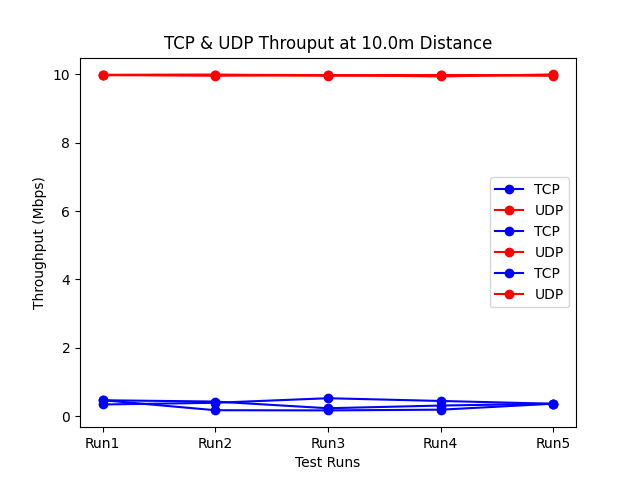
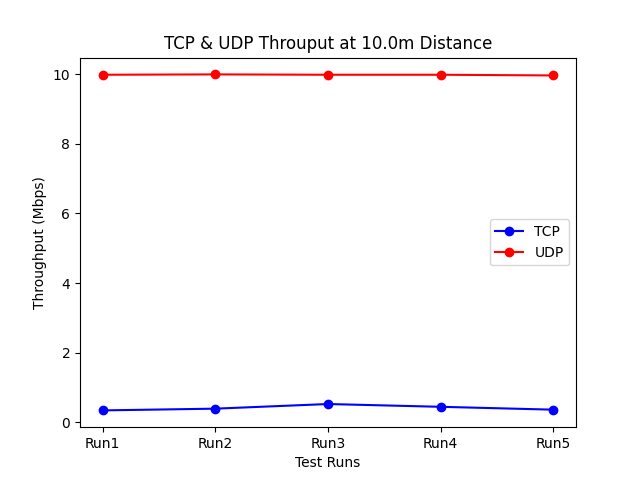
Fixed plotting across multiple figures

diff --git a/Labs/lab_05/iperf_plot.py b/Labs/lab_05/iperf_plot.py
@@ -33,6 +33,8 @@ for trial in udp_files:
 
 run_names = ["Run" + str(i) for i in range(1, 6) ]
 for run in range(0, len(distances)):
+	plt.figure(tcp_data[run][0])
+
 	plt.plot(run_names, tcp_data[run][1:6], marker="o", color="blue", label="TCP")
 	plt.plot(run_names, udp_data[run][1:6], marker="o", color="red", label="UDP")
 
